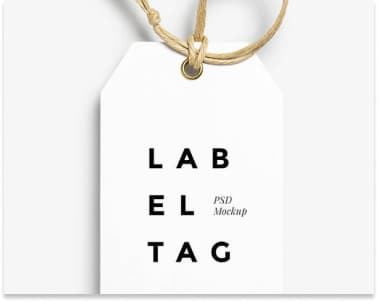
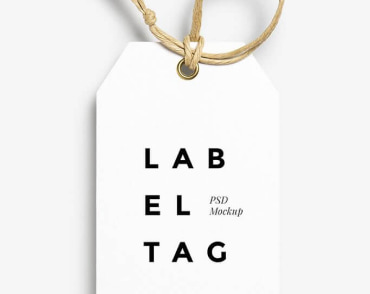
Убирает нижний отступ у фото. Добавляет рамки в нижней части карточки на странице портфолио

diff --git a/portfolio.html b/portfolio.html
@@ -46,7 +46,7 @@
 <h1 hidden class="portfolio-title">Portfolio</h1>
     <ul class="portfolio-list nolist">
 <li class="flex-element">
-    <img src="./images/portim-1.jpg" alt="Ноутбук крупным планом на мониторе отображается сайт с фото троих людей" 
+    <img class="image" src="./images/portim-1.jpg" alt="Ноутбук крупным планом на мониторе отображается сайт с фото троих людей" 
          width="370"
          height="294">
          <div class="portfolio-text">
@@ -55,7 +55,7 @@
     </div>     
 </li>
 <li class="flex-element">
-    <img src="./images/portim-2.jpg" alt="Два баскетболиста в фиолетовой и белой форму ведут борьбу за мяч" 
+    <img class="image" src="./images/portim-2.jpg" alt="Два баскетболиста в фиолетовой и белой форму ведут борьбу за мяч" 
          width="370"
          height="294">
          <div class="portfolio-text">
@@ -64,7 +64,7 @@
     </div>
 </li>
 <li class="flex-element">
-    <img src="./images/portim-3.jpg" alt="Название ресторана на фоне морской рыбы "
+    <img class="image" src="./images/portim-3.jpg" alt="Название ресторана на фоне морской рыбы "
          width="370"
          height="294">
          <div class="portfolio-text">
@@ -73,7 +73,7 @@
     </div>
 </li>
 <li class="flex-element">
-    <img src="./images/portim-4.jpg" alt="Черные наушники крупным планом" 
+    <img class="image" src="./images/portim-4.jpg" alt="Черные наушники крупным планом" 
          width="370"
          height="294">
          <div class="portfolio-text">
@@ -82,7 +82,7 @@
     </div>
 </li>
 <li class="flex-element">
-    <img src="./images/portim-5.jpg" alt="Две коробки белая больше коричневая меньше" 
+    <img class="image" src="./images/portim-5.jpg" alt="Две коробки белая больше коричневая меньше" 
          width="370"
          height="294">
          <div class="portfolio-text">
@@ -91,7 +91,7 @@
     </div>
 </li>
 <li class="flex-element">
-    <img src="./images/portim-6.jpg" alt="Монитор Apple крупным планом с открытым веб-сайтом" 
+    <img class="image" src="./images/portim-6.jpg" alt="Монитор Apple крупным планом с открытым веб-сайтом" 
          width="370"
          height="294">
          <div class="portfolio-text">
@@ -100,7 +100,7 @@
     </div>
 </li>
 <li class="flex-element">
-    <img src="./images/portim-7.jpg" alt="Развернутая книга с фотографиями" 
+    <img class="image" src="./images/portim-7.jpg" alt="Развернутая книга с фотографиями" 
          width="370"
          height="294">
          <div class="portfolio-text">
@@ -109,7 +109,7 @@
     </div>
 </li>
 <li class="flex-element">
-    <img src="./images/portim-8.jpg" alt="Бирка с надписью Labelteg крупным планом" 
+    <img class="image" src="./images/portim-8.jpg" alt="Бирка с надписью Labelteg крупным планом" 
              width="370"
              height="294">
              <div class="portfolio-text">
@@ -118,7 +118,7 @@
     </div>
 </li>
 <li class="flex-element">
-    <img src="./images/portim-9.jpg" alt="Программист работает за ноутбуком" 
+    <img class="image" src="./images/portim-9.jpg" alt="Программист работает за ноутбуком" 
                  width="370"
                  height="294">
                  <div class="portfolio-text">

diff --git a/index.html b/index.html
@@ -77,19 +77,19 @@
             <h2 class="work-title">Чем мы занимаемся</h2>
             <ul class="work-list nolist">
                 <li class="foto">
-                    <img src="./images/box_1.jpg" 
+                    <img class="image" src="./images/box_1.jpg" 
                     alt="Программист крупным планом работает за своим столом в офисе"
                         width="370"
                         height="294">
                 </li>
                 <li class="foto">
-                    <img src="./images/box_2.jpg"
+                    <img class="image" src="./images/box_2.jpg"
                         alt="Веб-дизайнер пользовательского интерфейса разрабатывает приложения для смартфонов"
                         width="370"
                         height="294">
                 </li>
                 <li class="foto">
-                    <img src="./images/box_3.jpg"
+                    <img class="image" src="./images/box_3.jpg"
                         alt="Креативный веб-дизайн художника с рабочим графическим планшетом для выбора цвета"
                         width="370"
                         height="294">
@@ -103,7 +103,7 @@
             <h2 class="team-title">Наша команда</h2>
             <ul class="team-list nolist">
                 <li class="card">
-                        <img src="./images/img_1.jpg" 
+                        <img class="image" src="./images/img_1.jpg" 
                         alt="Фото Игоря Демьяненко" 
                         width="270" 
                         height="260">
@@ -111,7 +111,7 @@
                             <p class="text">Product Designer</p>
                 </li>
                 <li class="card">
-                        <img src="./images/img_2.jpg" 
+                        <img class="image" src="./images/img_2.jpg" 
                         alt="Фото Ольги Репиной" 
                         width="270" 
                         height="260">
@@ -119,7 +119,7 @@
                             <p class="text">Frontend Developer</p>
                 </li>
                 <li class="card">
-                         <img src="./images/img_3.jpg" 
+                         <img class="image" src="./images/img_3.jpg" 
                         alt="Фото Николая Тарасова" 
                         width="270" 
                         height="260">
@@ -127,7 +127,7 @@
                             <p class="text">Marketing</p>
                 </li>
                 <li class="card">
-                        <img src="./images/img_4.jpg" 
+                        <img class="image" src="./images/img_4.jpg" 
                         alt="Фото Михаила Ермакова" 
                         width="270" 
                         height="260">

diff --git a/css/styles.css b/css/styles.css
@@ -300,7 +300,6 @@ h6 {
   flex-wrap: wrap;
 }
 .flex-element {
-  border: 1px solid var(--portfolio-box-color);
   box-sizing: border-box;
   width: 370px;
 }
@@ -310,15 +309,23 @@ h6 {
 .flex-element:not(:nth-last-child(-n + 3)) {
   margin-bottom: 30px;
 }
+.image {
+  display: block;
+}
 .portfolio-list .desc {
   font-size: 16px;
   line-height: 1.87;
 }
 .portfolio-text {
-  margin-top: 20px;
-  margin-right: 24px;
-  margin-bottom: 20px;
-  margin-left: 24px;
+  width: 370px;
+  height: 110px;
+  border: 1px solid var(--portfolio-box-color);
+  border-top-style: none;
+
+  padding-top: 20px;
+  padding-right: 24px;
+  padding-bottom: 20px;
+  padding-left: 24px;
 }
 .portfolio-item {
   color: var(--title-text-color);
